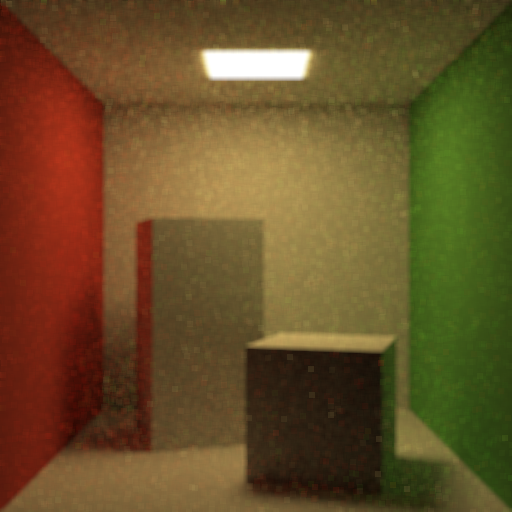
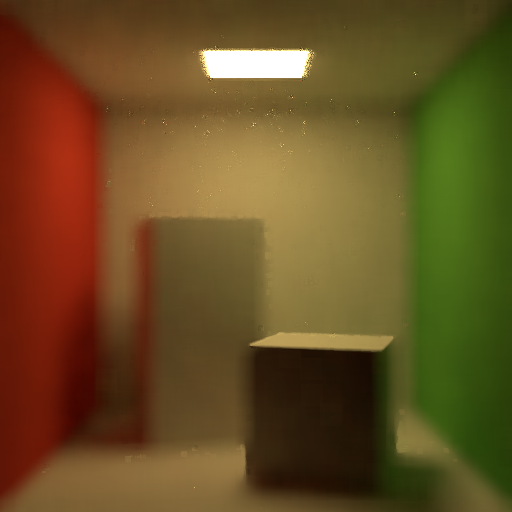
tactical committ

diff --git a/libs/yocto_extension/yocto_extension.cpp b/libs/yocto_extension/yocto_extension.cpp
@@ -60,6 +60,7 @@ namespace yocto::extension {
     }
 
     img::image<vec4f> denoise_nlmean(const img::image<vec4f>& img, int r, int f, float sigma, float h){
+
         auto out = img::image<vec4f>(img.size());
         parallel_for(img.size(), [&out, img, r, f, sigma, h](const vec2i& ij) {
 
@@ -68,7 +69,7 @@ namespace yocto::extension {
         auto i = ij.x;
         auto j = ij.y;
         auto p = img[{i, j}];
-
+        //printf("%f %f %f\n", p.x, p.y, p.z);
         auto c = 0.0f;
         auto acc = vec4f{0, 0, 0, 0};
         //iterate in the neigh of size (2* r x 2 * r)
@@ -77,36 +78,105 @@ namespace yocto::extension {
             for(int ry = -r; ry < r; ry++){
                 auto qx = i + rx;
                 auto qy = j + ry;
+                //if(qx == i && qy == j) continue;
                 if (!img.contains({qx, qy})) continue;
-                auto q = out[{i + rx, j + ry}];
+                auto q = img[{i + rx, j + ry}];
 
-                auto tot = vec4f{0,0,0,0};
+                auto tot = vec4f{0, 0, 0, 0};
                 // iterate in the neigh of size (2* f x 2 * f)
                 // centered in p and q
+
                 for(int fx = -f; fx < f; fx++){
                     for(int fy = -f; fy < f; fy++){
                         if (!img.contains({qx + fx,  qy + fy})) continue;
                         if (!img.contains({i + fx,  j + fy})) continue;
                         auto qf = img[{qx + fx, qy + fy}];
                         auto pf = img[{i + fx, j + fy}];
-                        tot += pow(pf - qf, 2);
+                        //printf("1 %f %f %f\n",qf.x, qf.y, qf.z);
+                        //printf("2 %f %f %f\n",pf.x, pf.y, pf.z);
+                        tot += pow((pf - qf) * 255, 2);
+                        //printf("2 %f %f %f\n",tot.x, tot.y, tot.z);
                         //
                     }
                 }
-                auto d_tot = tot.x + tot.y + tot.z;
-                //printf("%f", d_tot);
-                d_tot *= (1.0f / (3.0f * pow(2.0f * f + 1.0f, 2)));
-                //printf("%f", d_tot);
-                auto w = exp(-max(d_tot - 2 * pow(sigma, 2), 0.0f) / pow(h, 2));
+                
+                //auto d_tot = tot.x + tot.y + tot.z;
+                //printf("tpt: %f\n", tot);
+                auto dist = sum(tot) / (3.0f * pow(2.0f * f, 2));
+                //printf("%f\n", dist);
+                auto w = exp(-max(dist - 2 * pow(sigma, 2), 0.0f) / pow(h, 2));
+                //printf("%f\n", w);
                 //printf("%f", w);
                 c += w;
-                acc += img[{qx, qy}] * w;
+                acc += q * w;
             }
 
         }
         acc/=c;
         //printf("%f %f %f\n", acc.x, acc.y, acc.z);
-        out[{i, j}] = pow(acc, (1/2.2f));
+        out[{i, j}] = acc;
+        //out[{i, j}] = pow(acc, (1/2.2f));
+        });
+
+        return out;
+    }
+
+    img::image<vec4f> denoise_nlmean_patch(const img::image<vec4f>& img, int r, int f, float sigma, float h){
+
+        auto out = img::image<vec4f>(img.size());
+        parallel_for(img.size(), [&out, img, r, f, sigma, h](const vec2i& ij) {
+
+        auto width = img.size().x;
+        auto height = img.size().y;
+        auto i = ij.x;
+        auto j = ij.y;
+        auto p = img[{i, j}];
+        //printf("%f %f %f\n", p.x, p.y, p.z);
+        auto c = 0.0f;
+        auto acc = vec4f{0, 0, 0, 0};
+        //iterate in the neigh of size (2* r x 2 * r)
+        
+        for(int rx = -r; rx < r; rx++){
+            for(int ry = -r; ry < r; ry++){
+                auto qx = i + rx;
+                auto qy = j + ry;
+                //if(qx == i && qy == j) continue;
+                if (!img.contains({qx, qy})) continue;
+                auto q = img[{i + rx, j + ry}];
+
+                auto tot = vec4f{0, 0, 0, 0};
+                // iterate in the neigh of size (2* f x 2 * f)
+                // centered in p and q
+
+                for(int fx = -f; fx < f; fx++){
+                    for(int fy = -f; fy < f; fy++){
+                        if (!img.contains({qx + fx,  qy + fy})) continue;
+                        if (!img.contains({i + fx,  j + fy})) continue;
+                        auto qf = img[{qx + fx, qy + fy}];
+                        auto pf = img[{i + fx, j + fy}];
+                        //printf("1 %f %f %f\n",qf.x, qf.y, qf.z);
+                        //printf("2 %f %f %f\n",pf.x, pf.y, pf.z);
+                        tot += pow((pf - qf) * 255, 2);
+                        //printf("2 %f %f %f\n",tot.x, tot.y, tot.z);
+                        //
+                    }
+                }
+                
+                //auto d_tot = tot.x + tot.y + tot.z;
+                //printf("tpt: %f\n", tot);
+                auto dist = sum(tot) / (3.0f * pow(2.0f * f, 2));
+                //printf("%f\n", dist);
+                auto w = exp(-max(dist - 2 * pow(sigma, 2), 0.0f) / pow(h, 2));
+                //printf("%f\n", w);
+                //printf("%f", w);
+                c += w;
+                acc += q * w;
+            }
+
+        }
+        acc/=c;
+        //printf("%f %f %f\n", acc.x, acc.y, acc.z);
+        out[{i, j}] = acc;
         });
 
         return out;

diff --git a/apps/yimagedenoise/yimagedenoise.cpp b/apps/yimagedenoise/yimagedenoise.cpp
@@ -21,10 +21,18 @@ int main(int argc, const char* argv[]) {
   auto out_file   = "out.png"s;
   auto in_file = "img.png"s;
   auto type = "nlmean"s;
+  auto sigma = 7.0f;
+  auto r = 1;
+  auto f = 1;
+  auto h = 1.0f;
 
   // parse command line
   auto cli = cli::make_cli("yimagedenoise", "Intel Denoiser");
   add_option(cli, "--type,-t", type, "Output image filename", true);
+  add_option(cli, "--sigma,-s", sigma, "Sigma for nl means", true);
+  add_option(cli, "--radius,-r", r, "Radius image filename", true);
+  add_option(cli, "--frame,-f", f, "Frame image filename", true);
+  add_option(cli, "--height,-h", h, "Height image filename", true);
   add_option(cli, "--outimage,-o", out_file, "Output image filename", true);
   add_option(cli, "image", in_file, "Input image filename", true);
   parse_cli(cli, argc, argv);
@@ -41,31 +49,14 @@ int main(int argc, const char* argv[]) {
     if (!load_image(in_file, img, ioerror)) cli::print_fatal(ioerror);
 
     // corrections
-    
-    float sigma = 15;
-    int r;
-    int f;
-    float h ;
-    if (sigma > 0.0f && sigma <= 25.0f) {
-        r = 5;
-        f = 17;
-        h = 0.55f;
-
-    } else if (sigma > 25.0f && sigma <= 55.0f) {
-        r = 2;
-        f = 17;
-        h = 0.4f;
-
-    } else if (sigma <= 100.0f) {
-        r = 3;
-        f = 17;
-        h = 0.35f;
-
-    }
-    img = dns::denoise_nlmean(img, r, f, sigma, h*sigma);
+    printf("%d\n", r);
+    printf("%d\n", f);
+    printf("%f\n", sigma);
+    printf("%f\n", h);
+    img = dns::denoise_nlmean_patch(img, r, f, sigma, h);
 
     // save
-    if (!save_image(out_file, float_to_byte(img), ioerror))
+    if (!save_image(out_file, img, ioerror))
       cli::print_fatal(ioerror);
   } 
   else {

diff --git a/libs/yocto_extension/yocto_extension.h b/libs/yocto_extension/yocto_extension.h
@@ -55,7 +55,7 @@ namespace yocto::extension {
     void denoise(float* colorPtr, float* outputPtr, int width, int heigh);
 
     img::image<vec4f> denoise_nlmean(const img::image<vec4f>& img, int r, int f, float sigma, float h);
-
+    img::image<vec4f> denoise_nlmean_patch(const img::image<vec4f>& img, int r, int f, float sigma, float h);
 }
 
 #endif
